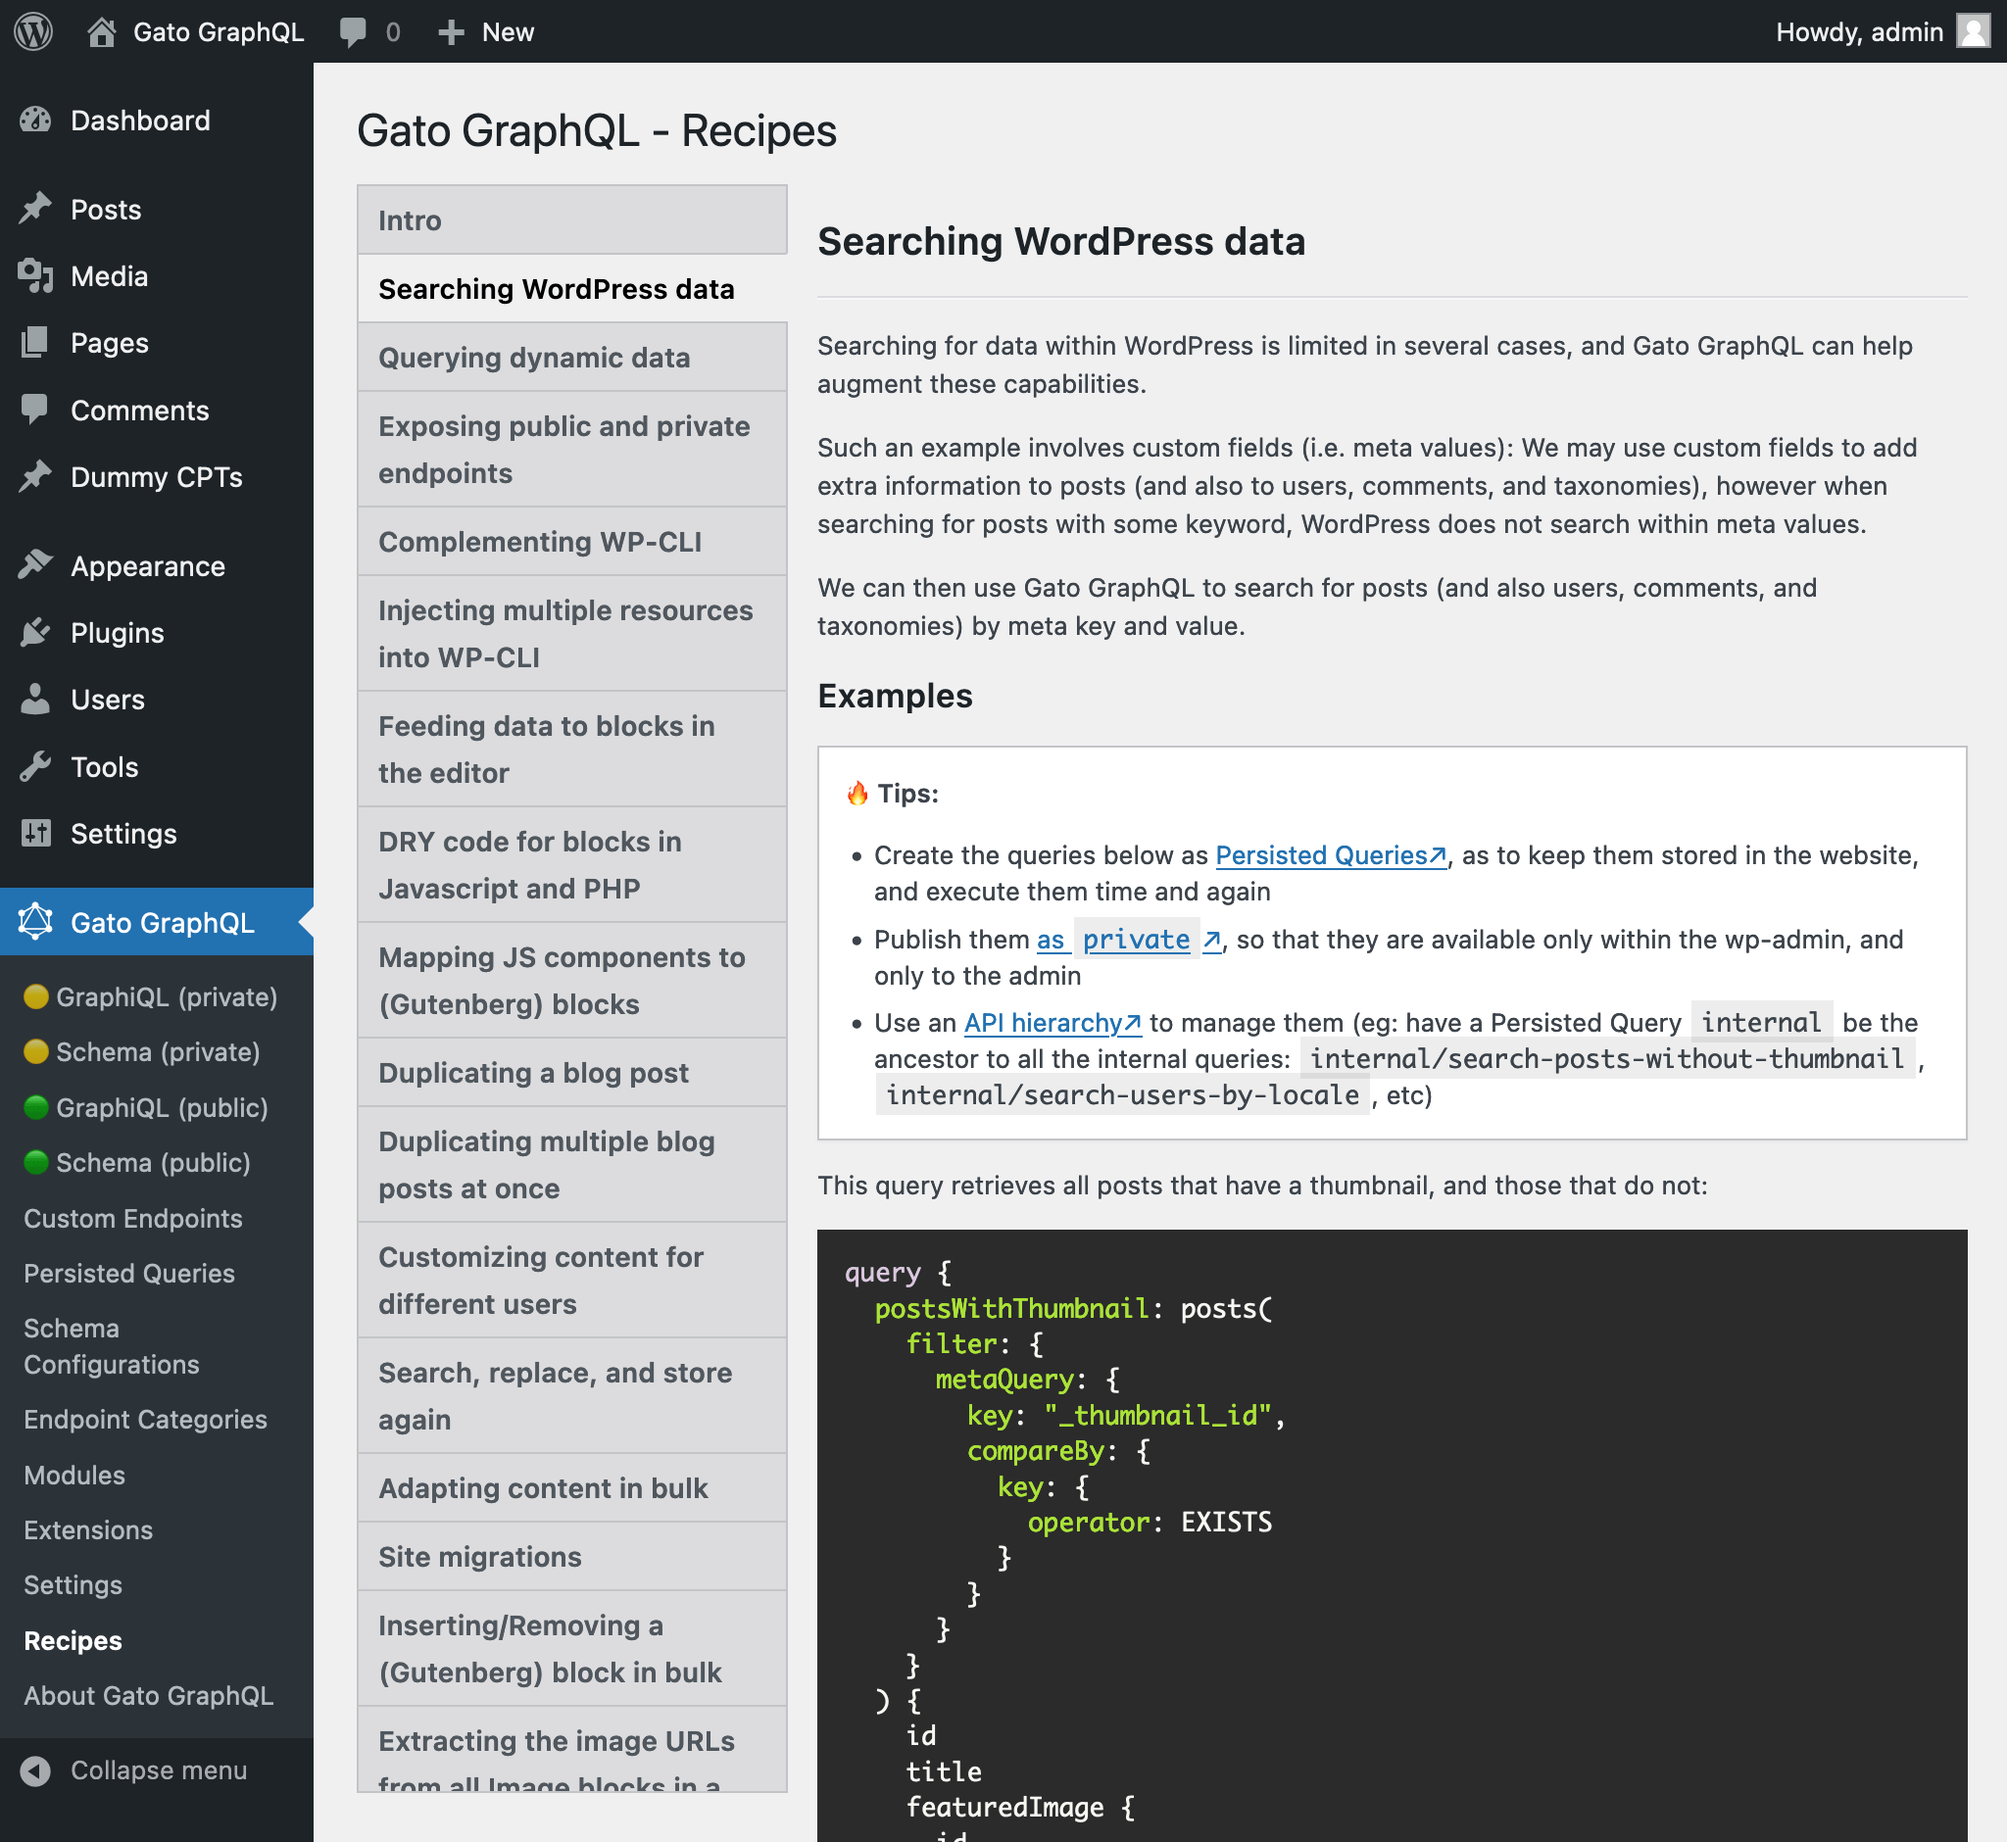
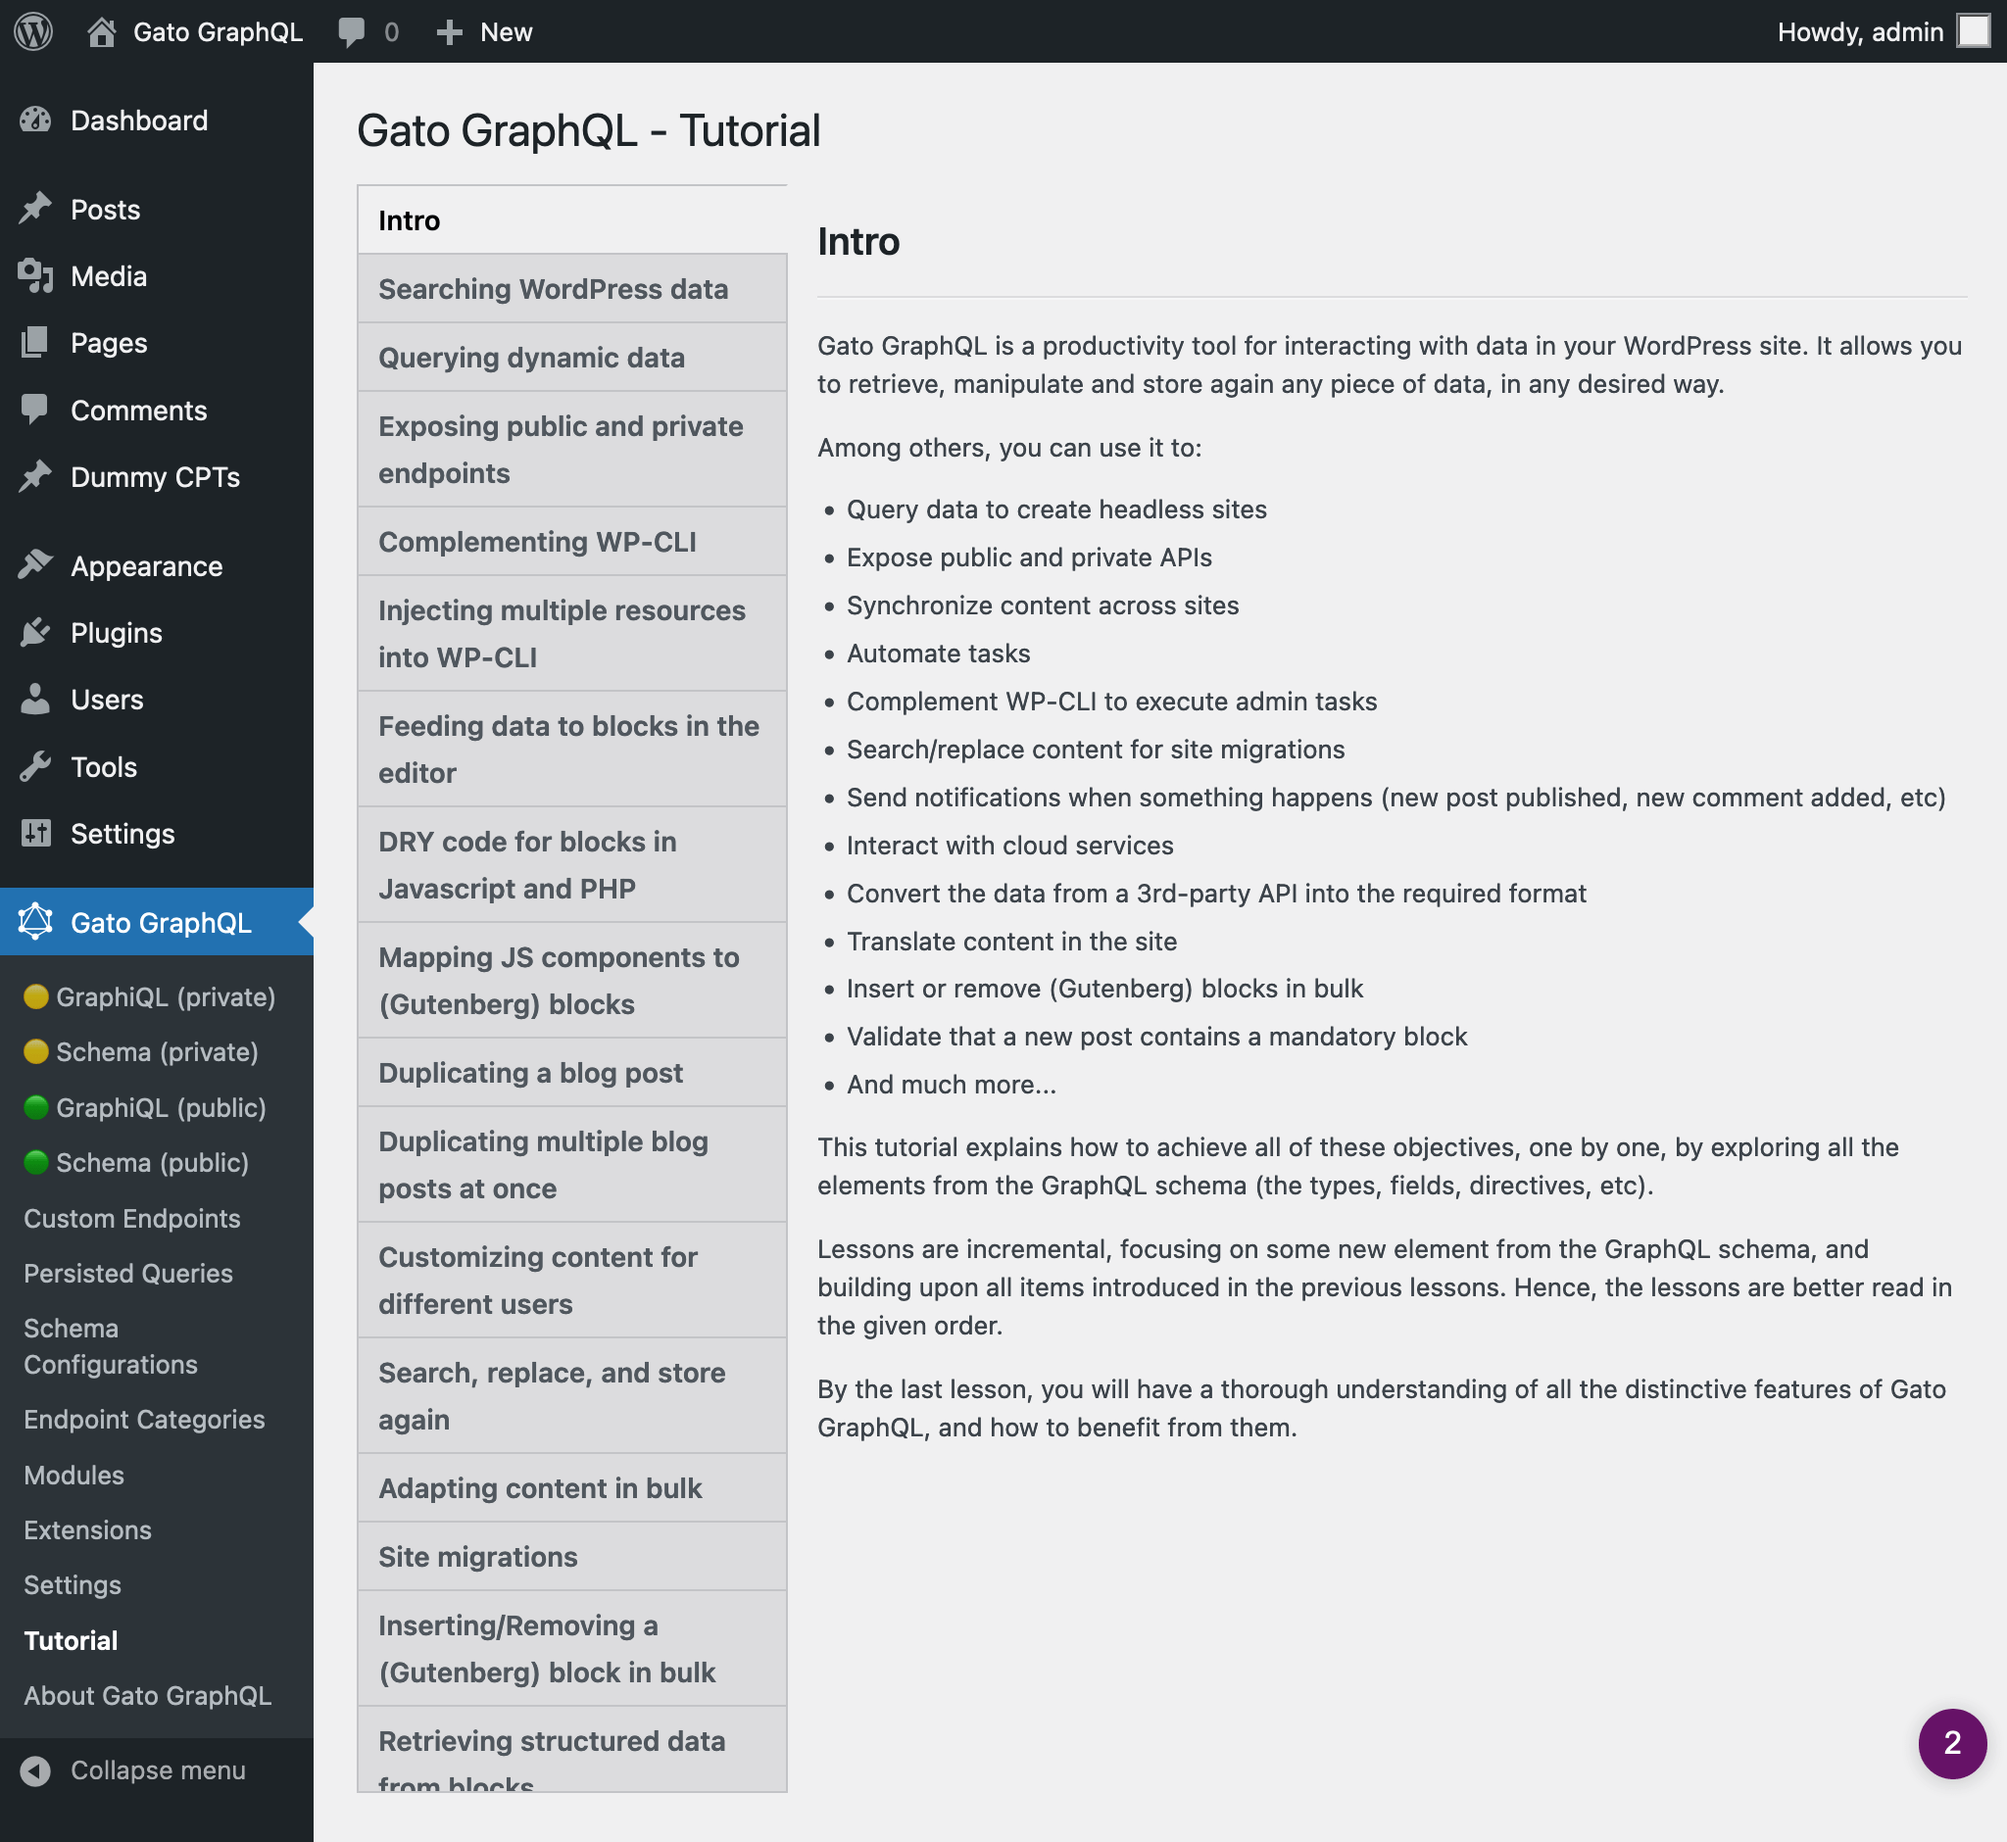
Merge pull request #2608 from GatoGraphQL/Add-settings-to-hide-Tutorial
Add Settings to hide the Tutorial page

diff --git a/src/Services/MenuPageAttachers/BottomMenuPageAttacher.php b/src/Services/MenuPageAttachers/BottomMenuPageAttacher.php
@@ -4,6 +4,8 @@ declare(strict_types=1);
 
 namespace GatoGraphQL\GatoGraphQL\Services\MenuPageAttachers;
 
+use GatoGraphQL\GatoGraphQL\Module;
+use GatoGraphQL\GatoGraphQL\ModuleConfiguration;
 use GatoGraphQL\GatoGraphQL\Registries\ModuleRegistryInterface;
 use GatoGraphQL\GatoGraphQL\Security\UserAuthorizationInterface;
 use GatoGraphQL\GatoGraphQL\Services\Helpers\MenuPageHelper;
@@ -15,9 +17,9 @@ use GatoGraphQL\GatoGraphQL\Services\MenuPages\ExtensionsMenuPage;
 use GatoGraphQL\GatoGraphQL\Services\MenuPages\MenuPageInterface;
 use GatoGraphQL\GatoGraphQL\Services\MenuPages\ModuleDocumentationMenuPage;
 use GatoGraphQL\GatoGraphQL\Services\MenuPages\ModulesMenuPage;
-use GatoGraphQL\GatoGraphQL\Services\MenuPages\TutorialMenuPage;
 use GatoGraphQL\GatoGraphQL\Services\MenuPages\ReleaseNotesAboutMenuPage;
 use GatoGraphQL\GatoGraphQL\Services\MenuPages\SettingsMenuPage;
+use GatoGraphQL\GatoGraphQL\Services\MenuPages\TutorialMenuPage;
 use GatoGraphQL\GatoGraphQL\Services\Taxonomies\GraphQLEndpointCategoryTaxonomy;
 use PoP\Root\App;
 
@@ -373,22 +375,26 @@ class BottomMenuPageAttacher extends AbstractPluginMenuPageAttacher
             $this->getSettingsMenuPage()->setHookName($hookName);
         }
 
-        $tutorialMenuPage = $this->getTutorialMenuPage();
-        /**
-         * @var callable
-         */
-        $callable = [$tutorialMenuPage, 'print'];
-        if (
-            $hookName = \add_submenu_page(
-                $menuName,
-                __('Tutorial', 'gatographql'),
-                __('Tutorial', 'gatographql'),
-                $schemaEditorAccessCapability,
-                $tutorialMenuPage->getScreenID(),
-                $callable
-            )
-        ) {
-            $tutorialMenuPage->setHookName($hookName);
+        /** @var ModuleConfiguration */
+        $moduleConfiguration = App::getModule(Module::class)->getConfiguration();
+        if (!$moduleConfiguration->hideTutorialPage()) {
+            $tutorialMenuPage = $this->getTutorialMenuPage();
+            /**
+             * @var callable
+             */
+            $callable = [$tutorialMenuPage, 'print'];
+            if (
+                $hookName = \add_submenu_page(
+                    $menuName,
+                    __('Tutorial', 'gatographql'),
+                    __('Tutorial', 'gatographql'),
+                    $schemaEditorAccessCapability,
+                    $tutorialMenuPage->getScreenID(),
+                    $callable
+                )
+            ) {
+                $tutorialMenuPage->setHookName($hookName);
+            }
         }
 
         /**

diff --git a/src/ModuleResolvers/EndpointFunctionalityModuleResolver.php b/src/ModuleResolvers/EndpointFunctionalityModuleResolver.php
@@ -9,6 +9,8 @@ use GatoGraphQL\GatoGraphQL\Constants\ModuleSettingOptionValues;
 use GatoGraphQL\GatoGraphQL\Constants\ModuleSettingOptions;
 use GatoGraphQL\GatoGraphQL\Constants\RequestParams;
 use GatoGraphQL\GatoGraphQL\ContentProcessors\MarkdownContentParserInterface;
+use GatoGraphQL\GatoGraphQL\Module;
+use GatoGraphQL\GatoGraphQL\ModuleConfiguration;
 use GatoGraphQL\GatoGraphQL\ModuleSettings\Properties;
 use GatoGraphQL\GatoGraphQL\Plugin;
 use GatoGraphQL\GatoGraphQL\Services\CustomPostTypes\GraphQLSchemaConfigurationCustomPostType;
@@ -290,6 +292,18 @@ class EndpointFunctionalityModuleResolver extends AbstractFunctionalityModuleRes
                 self::PERSISTED_QUERIES,
             ]) && $this->getModuleRegistry()->isModuleEnabled(SchemaConfigurationFunctionalityModuleResolver::SCHEMA_CONFIGURATION)
         ) {
+            /** @var ModuleConfiguration */
+            $moduleConfiguration = App::getModule(Module::class)->getConfiguration();
+            if ($moduleConfiguration->hideTutorialPage()) {
+                $feedDataToBlocksInTheEditorURL = 'https://gatographql.com/tutorial/feeding-data-to-blocks-in-the-editor/';
+            } else {
+                $feedDataToBlocksInTheEditorURL = \admin_url(sprintf(
+                    'admin.php?page=%s&%s=%s',
+                    $this->getTutorialMenuPage()->getScreenID(),
+                    RequestParams::TAB,
+                    'feeding-data-to-blocks-in-the-editor'
+                ));
+            }
             $defaultDescriptionPlaceholder = \__('Schema Configuration to use in %s which have option <code>"Default"</code> selected', 'gatographql');
             $description = match ($module) {
                 self::PRIVATE_ENDPOINT => sprintf(
@@ -306,12 +320,7 @@ class EndpointFunctionalityModuleResolver extends AbstractFunctionalityModuleRes
                         'admin.php?page=%s',
                         $this->getGraphQLVoyagerMenuPage()->getScreenID()
                     )),
-                    \admin_url(sprintf(
-                        'admin.php?page=%s&%s=%s',
-                        $this->getTutorialMenuPage()->getScreenID(),
-                        RequestParams::TAB,
-                        'feeding-data-to-blocks-in-the-editor'
-                    )),
+                    $feedDataToBlocksInTheEditorURL,
                     HTMLCodes::OPEN_IN_NEW_WINDOW,
                 ),
                 self::SINGLE_ENDPOINT => \__('Schema Configuration to use in the Single Endpoint', 'gatographql'),

diff --git a/src/ModuleResolvers/PluginGeneralSettingsFunctionalityModuleResolver.php b/src/ModuleResolvers/PluginGeneralSettingsFunctionalityModuleResolver.php
@@ -23,6 +23,7 @@ class PluginGeneralSettingsFunctionalityModuleResolver extends AbstractFunctiona
     /**
      * Setting options
      */
+    public final const OPTION_HIDE_TUTORIAL_PAGE = 'hide-tutorial-page';
     public final const OPTION_INSTALL_PLUGIN_SETUP_DATA = 'install-plugin-setup-data';
     public final const OPTION_ADD_RELEASE_NOTES_ADMIN_NOTICE = 'add-release-notes-admin-notice';
     public final const OPTION_PRINT_SETTINGS_WITH_TABS = 'print-settings-with-tabs';
@@ -114,6 +115,7 @@ class PluginGeneralSettingsFunctionalityModuleResolver extends AbstractFunctiona
     {
         $defaultValues = [
             self::GENERAL => [
+                self::OPTION_HIDE_TUTORIAL_PAGE => false,
                 self::OPTION_INSTALL_PLUGIN_SETUP_DATA => true,
                 self::OPTION_ADD_RELEASE_NOTES_ADMIN_NOTICE => true,
                 self::OPTION_PRINT_SETTINGS_WITH_TABS => true,
@@ -134,6 +136,18 @@ class PluginGeneralSettingsFunctionalityModuleResolver extends AbstractFunctiona
     {
         $moduleSettings = parent::getSettings($module);
         if ($module === self::GENERAL) {
+            $option = self::OPTION_HIDE_TUTORIAL_PAGE;
+            $moduleSettings[] = [
+                Properties::INPUT => $option,
+                Properties::NAME => $this->getSettingOptionName(
+                    $module,
+                    $option
+                ),
+                Properties::TITLE => \__('Hide Tutorial page?', 'gatographql'),
+                Properties::DESCRIPTION => \__('Hide the Tutorial page from the menu navigation on the left?', 'gatographql'),
+                Properties::TYPE => Properties::TYPE_BOOL,
+            ];
+
             $option = self::OPTION_INSTALL_PLUGIN_SETUP_DATA;
             $moduleSettings[] = [
                 Properties::INPUT => $option,

diff --git a/src/PluginInitializationConfiguration.php b/src/PluginInitializationConfiguration.php
@@ -102,6 +102,13 @@ class PluginInitializationConfiguration extends AbstractMainPluginInitialization
                 'module' => PluginGeneralSettingsFunctionalityModuleResolver::SERVER_IP_CONFIGURATION,
                 'option' => PluginGeneralSettingsFunctionalityModuleResolver::OPTION_CLIENT_IP_ADDRESS_SERVER_PROPERTY_NAME,
             ],
+            // Hide menu page?
+            [
+                'class' => Module::class,
+                'envVariable' => Environment::HIDE_TUTORIAL_PAGE,
+                'module' => PluginGeneralSettingsFunctionalityModuleResolver::GENERAL,
+                'option' => PluginGeneralSettingsFunctionalityModuleResolver::OPTION_HIDE_TUTORIAL_PAGE,
+            ],
             // Install Plugin Setup Data
             [
                 'class' => Module::class,
@@ -643,6 +650,10 @@ class PluginInitializationConfiguration extends AbstractMainPluginInitialization
     protected function getEnvVariablesToWPConfigConstantsMapping(): array
     {
         return [
+            [
+                'class' => Module::class,
+                'envVariable' => Environment::HIDE_TUTORIAL_PAGE,
+            ],
             [
                 'class' => Module::class,
                 'envVariable' => Environment::INSTALL_PLUGIN_SETUP_DATA,

diff --git a/src/ModuleConfiguration.php b/src/ModuleConfiguration.php
@@ -177,6 +177,19 @@ class ModuleConfiguration extends AbstractModuleConfiguration
         );
     }
 
+    public function hideTutorialPage(): bool
+    {
+        $envVariable = Environment::HIDE_TUTORIAL_PAGE;
+        $defaultValue = false;
+        $callback = EnvironmentValueHelpers::toBool(...);
+
+        return $this->retrieveConfigurationValueOrUseDefault(
+            $envVariable,
+            $defaultValue,
+            $callback,
+        );
+    }
+
     public function installPluginSetupData(): bool
     {
         $envVariable = Environment::INSTALL_PLUGIN_SETUP_DATA;

diff --git a/src/Environment.php b/src/Environment.php
@@ -19,5 +19,6 @@ class Environment
     public final const GATOGRAPHQL_REQUEST_EXTENSION_PAGE_URL = 'GATOGRAPHQL_REQUEST_EXTENSION_PAGE_URL';
     public final const GATOGRAPHQL_EXTENSIONS_PAGE_URL = 'GATOGRAPHQL_EXTENSIONS_PAGE_URL';
     public final const USE_SCHEMA_CONFIGURATION_IN_INTERNAL_GRAPHQL_SERVER = 'USE_SCHEMA_CONFIGURATION_IN_INTERNAL_GRAPHQL_SERVER';
+    public final const HIDE_TUTORIAL_PAGE = 'HIDE_TUTORIAL_PAGE';
     public final const INSTALL_PLUGIN_SETUP_DATA = 'INSTALL_PLUGIN_SETUP_DATA';
 }

diff --git a/docs/release-notes/1.4/en.md b/docs/release-notes/1.4/en.md
@@ -28,9 +28,23 @@ Same for custom endpoints:
 
 (GraphiQL clients on Persisted queries do not have this addition.)
 
-## Improvements
+## Renamed page "Recipes" to "Tutorial", and added settings to hide it
 
-- Renamed "Recipes" as "Tutorial"
+The page "Recipes" has been renamed to "Tutorial", to better represent its nature. (At the same time, the new ["Queries Library" section at gatographql.com](https://gatographql.com/library/) demonstrates GraphQL queries to solve common use cases.)
+
+An option to hide the Tutorial section has been added to the Settings page, under "Plugin Configuration > General > Hide Tutorial page?":
+
+<div class="img-width-1024" markdown=1>
+
+![Hiding the Tutorial page in the Settings](../../images/settings-hide-tutorial-page.png)
+
+</div>
+
+Alternatively, we can define this value in `wp-config.php`:
+
+```php
+define( 'GATOGRAPHQL_HIDE_TUTORIAL_PAGE', true );
+```
 
 ## Fixed
 

diff --git a/CHANGELOG.md b/CHANGELOG.md
@@ -13,7 +13,7 @@ Updates should follow the [Keep a CHANGELOG](http://keepachangelog.com/) princip
 ### Improvements
 
 - Added "Request headers" to GraphiQL clients on single public/private endpoint, and custom endpoints
-- Renamed "Recipes" as "Tutorial"
+- Renamed page "Recipes" to "Tutorial", and added settings to hide it
 
 ### Fixed
 
